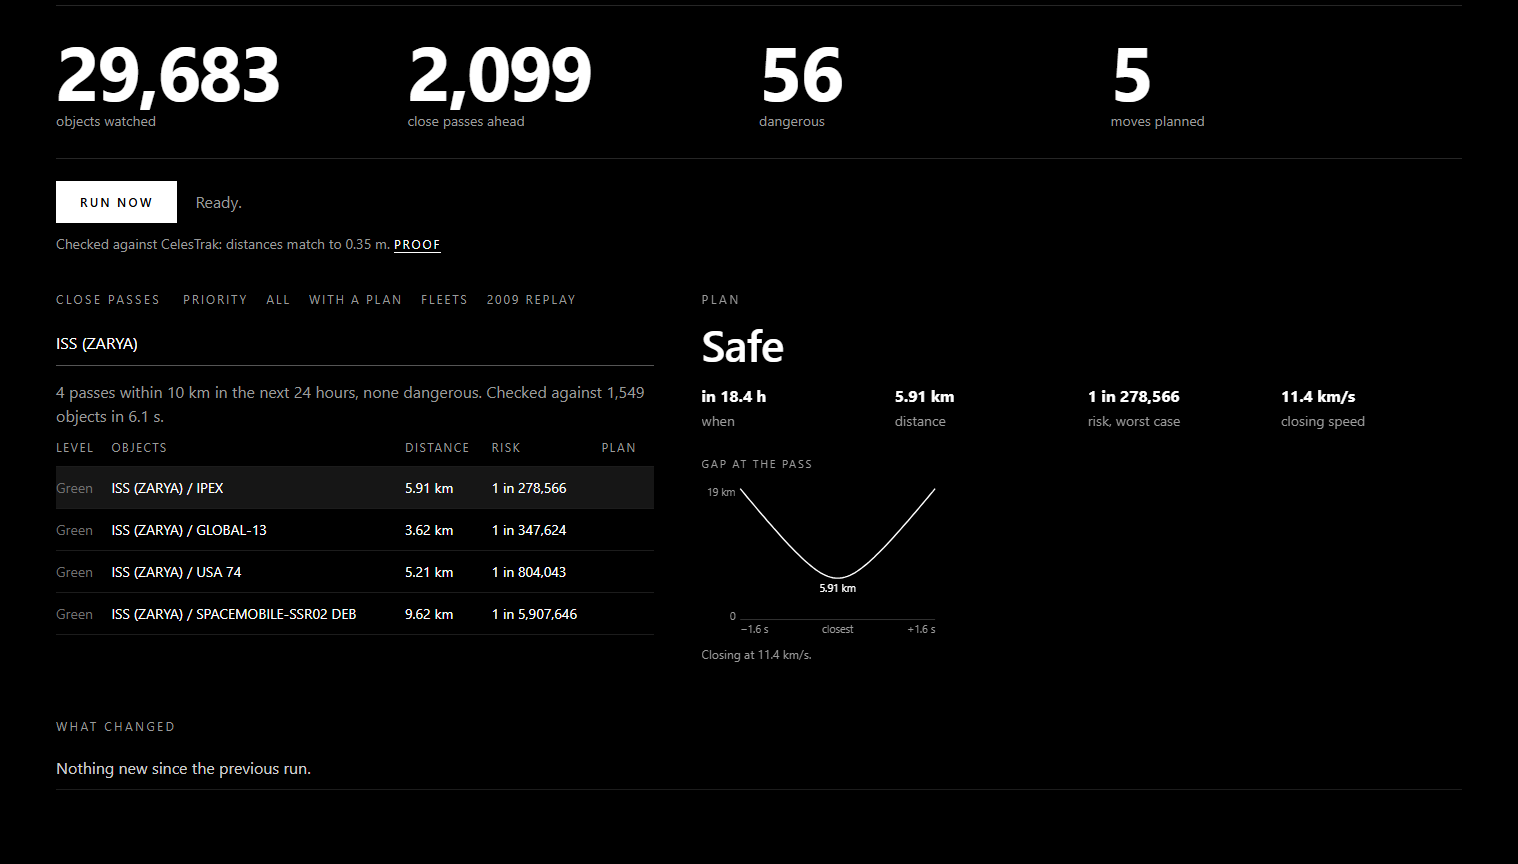
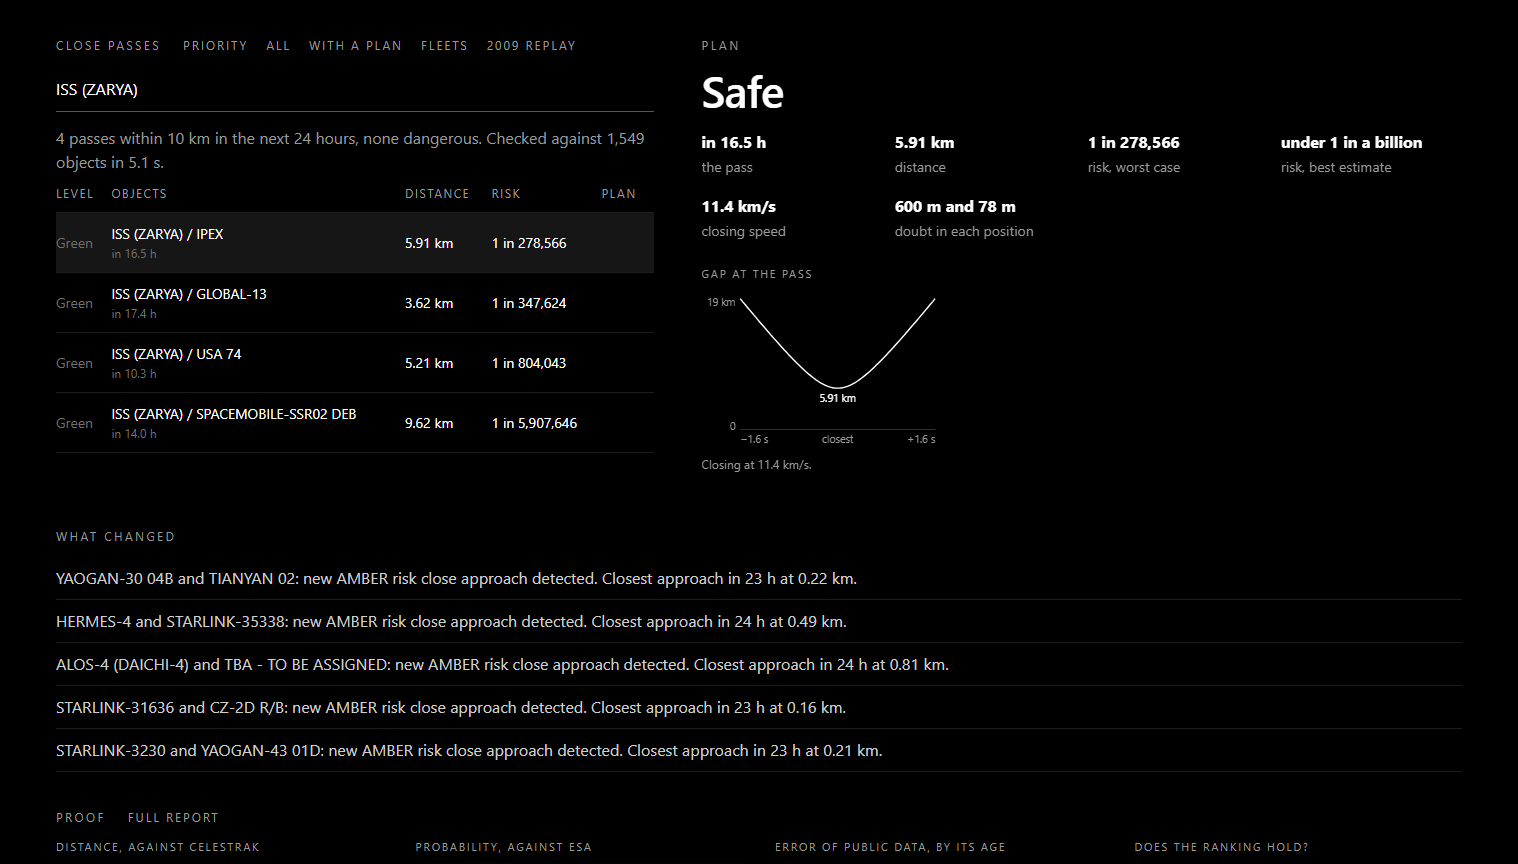
Dashboard: say "Burn ready", and bring back the figures in plain words
A burn is advice, so the list now says Burn ready where it said Move. The
page also shows again when the last run was and when the next comes, how
many passes are to watch or safe, when each pass happens, which object
would move, the best-estimate risk beside the worst case, how unsure each
position is, and when the burn back to the old orbit comes.

diff --git a/fusion/api/static/index.html b/fusion/api/static/index.html
@@ -18,6 +18,7 @@
   .tiles div { padding: 26px 0; }
   .tiles b { display: block; font-size: clamp(34px, 5.4vw, 76px); line-height: 1; letter-spacing: -.03em; }
   .tiles span, .facts span { color: #9a9a9a; font-size: 14px; }
+  .tiles .sub, .when { display: block; color: #6f6f6f; font-size: 12px; }
   .run { display: flex; align-items: center; gap: 18px; padding: 22px 0 0; }
   button { background: #fff; color: #000; border: 0; padding: 13px 24px; font-family: inherit; font-size: 12px; font-weight: 600; letter-spacing: .18em; text-transform: uppercase; cursor: pointer; }
   button:disabled { opacity: .45; cursor: default; }
@@ -26,7 +27,7 @@
   .split { display: grid; grid-template-columns: minmax(0, 1fr); gap: 0 48px; }
   #planbox { border-bottom: 1px solid #fff; padding-bottom: 18px; }
   .big { font-size: clamp(24px, 3.2vw, 44px); font-weight: 600; letter-spacing: -.02em; line-height: 1.1; margin: 0; }
-  .facts { display: grid; grid-template-columns: repeat(4, 1fr); gap: 12px; margin-top: 16px; }
+  .facts { display: grid; grid-template-columns: repeat(4, 1fr); gap: 16px 12px; margin-top: 16px; }
   .facts b { display: block; font-size: 18px; }
   .why { color: #9a9a9a; margin: 14px 0 0; max-width: 90ch; }
   .ask { display: flex; align-items: center; gap: 18px; margin-top: 16px; color: #9a9a9a; }
@@ -76,12 +77,13 @@
 <div class="tiles">
   <div><b id="t-objects">-</b><span>objects watched</span></div>
   <div><b id="t-passes">-</b><span>close passes ahead</span></div>
-  <div><b id="t-red">-</b><span>dangerous</span></div>
-  <div><b id="t-burns">-</b><span>moves planned</span></div>
+  <div><b id="t-red">-</b><span>dangerous</span><span id="t-rest" class="sub"></span></div>
+  <div><b id="t-burns">-</b><span>burns ready</span></div>
 </div>
 
 <div class="run"><button id="run">Run now</button><span id="status">Ready.</span></div>
 <p class="check"><span id="validation"></span> <a id="report" href="#proof-title" hidden>Proof</a></p>
+<p class="check" id="runinfo"></p>
 
 <div class="split">
   <div id="planbox"><h2>Plan</h2><div id="plan"><p class="why">Pick a pass.</p></div></div>
@@ -108,7 +110,7 @@ let picked = null, runId = null, source = "latest", onlyBurns = false;
 let checked = null, typed = 0;  // the result of checking one satellite, shown when source is "object"
 let fleet = null;  // the fleet whose passes the list shows, when one was picked under Fleets
 let priority = true, reds = null, shown = null;  // Priority: the dangerous passes that are not inside one fleet
-const PASS_HEAD = '<tr><th>Level</th><th>Objects</th><th class="hide">In</th><th>Distance</th><th>Risk</th><th>Plan</th></tr>';
+const PASS_HEAD = "<tr><th>Level</th><th>Objects</th><th>Distance</th><th>Risk</th><th>Plan</th></tr>";
 const FLEET_HEAD = "<tr><th>Fleet</th><th>Satellites</th><th>Passes</th><th>Dangerous</th><th>Own fleet</th><th>Burns</th></tr>";
 const get = async path => { const r = await fetch(path); if (!r.ok) throw new Error(path); return r.json(); };
 const n = x => Number(x).toLocaleString("en-US");
@@ -117,6 +119,8 @@ const odds = p => p == null ? "-" : p >= 0.5 ? "likely" : 1 / p > 1e9 ? "under 1
 const dist = km => km < 1 ? Math.round(km * 1000) + " m" : km.toFixed(2) + " km";
 const short = km => km < 1 ? Math.round(km * 1000) + " m" : km.toFixed(km < 10 ? 1 : 0) + " km";  // for a picture's axis
 const word = level => level ? level[0] + level.slice(1).toLowerCase() : "";
+const clock = t => new Date(t).toLocaleTimeString([], { hour: "2-digit", minute: "2-digit" });  // in the viewer's own time
+const when = t => source === "replay" ? new Date(t).toUTCString().slice(5, 22) + " UTC" : "in " + Math.max(0, (new Date(t) - Date.now()) / 3.6e6).toFixed(1) + " h";
 const fail = () => { $("error").textContent = "Cannot reach the system."; };
 
 async function loadTop() {
@@ -126,7 +130,12 @@ async function loadTop() {
   $("t-red").textContent = n(r.levels.RED);
   reds = r.levels.RED; aboutPriority();
   $("t-burns").textContent = n(r.plans.maneuver);
+  $("t-rest").textContent = n(r.levels.AMBER) + " to watch, " + n(r.levels.GREEN) + " safe";
   $("error").textContent = "";
+  const took = r.duration_s >= 90 ? Math.floor(r.duration_s / 60) + " min " + Math.round(r.duration_s % 60) + " s" : Math.round(r.duration_s) + " s";
+  let info = "Last run at " + clock(r.t0) + ", took " + took + ", looking " + r.window_hours + " hours ahead.";
+  try { const m = await get("/monitor"); if (m.scheduler_on && m.next_run) info += " Next run by itself at " + clock(m.next_run) + "."; } catch (e) { /* the line is shorter without it */ }
+  $("runinfo").textContent = info;
   try {
     const v = await get("/validation");
     $("validation").textContent = "Checked against CelesTrak: distances match to " + v.same_input.all_matches.miss_difference_m.median.toFixed(2) + " m.";
@@ -165,12 +174,11 @@ async function loadEvents() {
     $("about").textContent = hit ? "Iridium 33 and Cosmos 2251 collided on 10 February 2009. The data public a day earlier predicted a miss of " + dist(hit.miss_distance_km) + ", so the honest rating is amber, not red." : "";
   }
   $("events").innerHTML = events.map(e => {
-    const hours = source !== "replay" ? Math.max(0, (new Date(e.tca) - Date.now()) / 3.6e6).toFixed(1) + " h" : "-";
-    const plan = e.plan_decision === "MANEUVER" ? "<b>Move</b>" : e.plan_decision === "MONITOR" ? "Watch" : "";
+    const plan = e.plan_decision === "MANEUVER" ? "<b>Burn ready</b>" : e.plan_decision === "MONITOR" ? "Watch" : "";
     return `<tr class="row ${e.event_id === picked ? "picked" : ""}" data-id="${esc(e.event_id)}">
       <td class="${e.risk_level}">${word(e.risk_level)}</td>
-      <td>${esc(e.primary_name)} / ${esc(e.secondary_name)}${e.synthetic ? ' <span class="tag">TEST</span>' : ""}</td>
-      <td class="hide">${hours}</td><td>${dist(e.miss_distance_km)}</td><td>${odds(e.pc_max)}</td><td>${plan}</td></tr>`;
+      <td>${esc(e.primary_name)} / ${esc(e.secondary_name)}${e.synthetic ? ' <span class="tag">TEST</span>' : ""}<span class="when">${when(e.tca)}</span></td>
+      <td>${dist(e.miss_distance_km)}</td><td>${odds(e.pc_max)}</td><td>${plan}</td></tr>`;
   }).join("") || '<tr><td colspan="6">Nothing to show.</td></tr>';
   document.querySelectorAll("tr.row").forEach(row => row.onclick = () => {
     picked = row.dataset.id; loadEvents().catch(fail); loadPlan();
@@ -178,18 +186,40 @@ async function loadEvents() {
   });
 }
 
-function burn(p) {
+// how unsure each object's position is: the largest of its three measured errors
+const doubt = e => e.sigma_rtn_primary_km && e.sigma_rtn_secondary_km
+  ? short(Math.max(...e.sigma_rtn_primary_km)) + " and " + short(Math.max(...e.sigma_rtn_secondary_km)) : "-";
+
+// a pass and its risk, for a card that has no burn
+function facts(e) {
+  return `<div class="facts">
+      <div><b>${when(e.tca)}</b><span>the pass</span></div>
+      <div><b>${dist(e.miss_distance_km)}</b><span>distance</span></div>
+      <div><b>${odds(e.pc_max)}</b><span>risk, worst case</span></div>
+      <div><b>${odds(e.pc)}</b><span>risk, best estimate</span></div>
+      <div><b>${e.relative_speed_kms.toFixed(1)} km/s</b><span>closing speed</span></div>
+      <div><b>${doubt(e)}</b><span>doubt in each position</span></div>
+    </div>`;
+}
+
+function burn(p, e) {
   const way = p.dv_rtn_ms[1] > 0 ? "Speed up" : "Slow down";
+  const lead = (new Date(e.tca) - new Date(p.burn_time)) / 3.6e6, back = (new Date(p.return_burn_time) - new Date(e.tca)) / 3.6e6;
+  const mover = p.maneuvering_id === e.primary_id ? e.primary_name : e.secondary_name;
   // runs made before the other passes were compared have no count of them
   const others = p.other_passes_checked == null
     ? `<b>${p.secondary_conjunctions_created}</b><span>new dangers</span>`
     : `<b>${p.secondary_conjunctions_created} new, ${p.other_passes_worsened} worse</b><span>its other passes${p.other_passes_checked ? ", " + p.other_passes_checked + " checked" : ""}</span>`;
   return `<p class="big">${way} by ${(p.dv_magnitude_ms * 1000).toFixed(0)} mm/s</p>
     <div class="facts">
-      <div><b>${p.lead_time_orbits} orbits early</b><span>when</span></div>
+      <div><b>${lead.toFixed(1)} h before the pass</b><span>the burn, ${p.lead_time_orbits} orbits early</span></div>
       <div><b>${dist(p.miss_before_km)} to ${dist(p.miss_after_km)}</b><span>distance</span></div>
-      <div><b>${odds(p.pc_max_before)} to ${odds(p.pc_max_after)}</b><span>risk</span></div>
+      <div><b>${odds(p.pc_max_before)} to ${odds(p.pc_max_after)}</b><span>risk, worst case</span></div>
       <div>${others}</div>
+      <div><b>${esc(mover)}</b><span>the one that moves</span></div>
+      <div><b>${when(e.tca)}</b><span>the pass</span></div>
+      <div><b>${odds(p.pc_before)} to ${odds(p.pc_after)}</b><span>risk, best estimate</span></div>
+      <div><b>${back.toFixed(1)} h after the pass</b><span>burn back to its old orbit</span></div>
     </div><p class="why">${esc(p.rationale)}</p>`;
 }
 
@@ -273,14 +303,7 @@ function pictures(d, moved, movedWord) {
 
 // a pass found by checking one satellite: it is not in the run, so it has no plan
 function showPass(e) {
-  const hours = Math.max(0, (new Date(e.tca) - Date.now()) / 3.6e6).toFixed(1);
-  $("plan").innerHTML = `<p class="big">${e.risk_level === "RED" ? "Dangerous" : e.risk_level === "AMBER" ? "Watch" : "Safe"}</p>
-    <div class="facts">
-      <div><b>in ${hours} h</b><span>when</span></div>
-      <div><b>${dist(e.miss_distance_km)}</b><span>distance</span></div>
-      <div><b>${odds(e.pc_max)}</b><span>risk, worst case</span></div>
-      <div><b>${e.relative_speed_kms.toFixed(1)} km/s</b><span>closing speed</span></div>
-    </div>` + pictures({ event: e });
+  $("plan").innerHTML = `<p class="big">${e.risk_level === "RED" ? "Dangerous" : e.risk_level === "AMBER" ? "Watch" : "Safe"}</p>` + facts(e) + pictures({ event: e });
 }
 
 // the two documents written for every dangerous pass of a run: the standard warning message and the briefing
@@ -300,11 +323,11 @@ async function loadPlan() {
     if (id !== picked) return;
     const p = d.plan, whatIf = d.what_if_plan;
     let html;
-    if (!p) html = '<p class="big">Safe</p><p class="why">Low risk. No plan needed.</p>' + pictures(d);
-    else if (p.decision === "MANEUVER") html = burn(p) + papers(id) + pictures(d, p, "after the burn");
+    if (!p) html = '<p class="big">Safe</p>' + facts(d.event) + '<p class="why">Low risk. No plan needed.</p>' + pictures(d);
+    else if (p.decision === "MANEUVER") html = burn(p, d.event) + papers(id) + pictures(d, p, "after the burn");
     else {
-      html = `<p class="big">${p.decision === "MONITOR" ? "Watch" : "No action"}</p><p class="why">${esc(p.rationale)}</p>`;
-      if (whatIf) html += "<h2>What if it moved</h2>" + burn(whatIf);
+      html = `<p class="big">${p.decision === "MONITOR" ? "Watch" : "No action"}</p>${facts(d.event)}<p class="why">${esc(p.rationale)}</p>`;
+      if (whatIf) html += "<h2>What if it moved</h2>" + burn(whatIf, d.event);
       else if (source !== "replay" && !p.requested_at) html += '<div class="ask"><button id="ask">Plan now</button><span id="asked"></span></div>';
       html += papers(id) + pictures(d, whatIf, "if it moved");
     }

diff --git a/docs/team/SIMPLE.md b/docs/team/SIMPLE.md
@@ -61,7 +61,7 @@ Python only gives the orders. The heavy maths runs in compiled C and C++ librari
 ## How to show it
 
 - Start: `.venv\Scripts\python -m uvicorn fusion.api.main:app --port 8000`
-- Dashboard: http://localhost:8000. It opens on "Priority": the dangerous passes that are not inside one fleet. Click a "Move" row: the burn, and three pictures (the gap with and without the burn, every burn tried, the risk run by run). Click a "Watch" row and press "Plan now". Type ISS in the box. Click "Fleets". Click "2009 replay".
+- Dashboard: http://localhost:8000. It opens on "Priority": the dangerous passes that are not inside one fleet. Click a "Burn ready" row: the burn, and three pictures (the gap with and without the burn, every burn tried, the risk run by run). Click a "Watch" row and press "Plan now". Type ISS in the box. Click "Fleets". Click "2009 replay".
 - Story page: http://localhost:8000/landing
 
 ## What to say in 3 minutes
@@ -72,7 +72,7 @@ Have the dashboard open before you start. Do not press "Run now" during the talk
 |---|---|---|
 | 0:00 | Nothing yet | "About 30,000 tracked objects fly in low orbit at 7.5 km every second. That is 440 million pairs. Nobody can watch them by hand. EDITH does, from public data, every six hours, on a laptop." |
 | 0:25 | Point at the four numbers and the line under the button | "Right now: this many objects, this many close passes in the next 24 hours, this many dangerous. We checked our distances against CelesTrak: they match to 0.35 m." |
-| 0:50 | Click the first "Move" row | "These two would pass this close. EDITH says which one moves, when, and how hard. First picture: the gap with and without the burn. Second: every burn it tried, with the chosen one ringed. '0 new, 0 worse' means the burn was checked against every other object for 24 hours." |
+| 0:50 | Click the first "Burn ready" row | "These two would pass this close. EDITH says which one would move, when, and how hard. It is advice: the burn is ready if better data confirms the risk. First picture: the gap with and without the burn. Second: every burn it tried, with the chosen one ringed. '0 new, 0 worse' means the burn was checked against every other object for 24 hours." |
 | 1:35 | Click a "Watch" row, press "Plan now" | "A run plans five burns. For any other pass, one button, about 20 seconds." While it runs: "Passes between two satellites of one fleet are left out of this list. Public data is too rough for those." |
 | 2:00 | Type ISS, or the satellite the judge names | "Any satellite, by name. Its close passes for the next 24 hours, checked in seconds." |
 | 2:20 | Click "2009 replay" | "The real 2009 collision, from the data public the day before. EDITH finds it at the right second, as the most dangerous pass of Iridium 33. It rates it amber, because public data predicted a 584 m miss. That error is why we rank by worst case, and why we measured the error of public data ourselves." |
